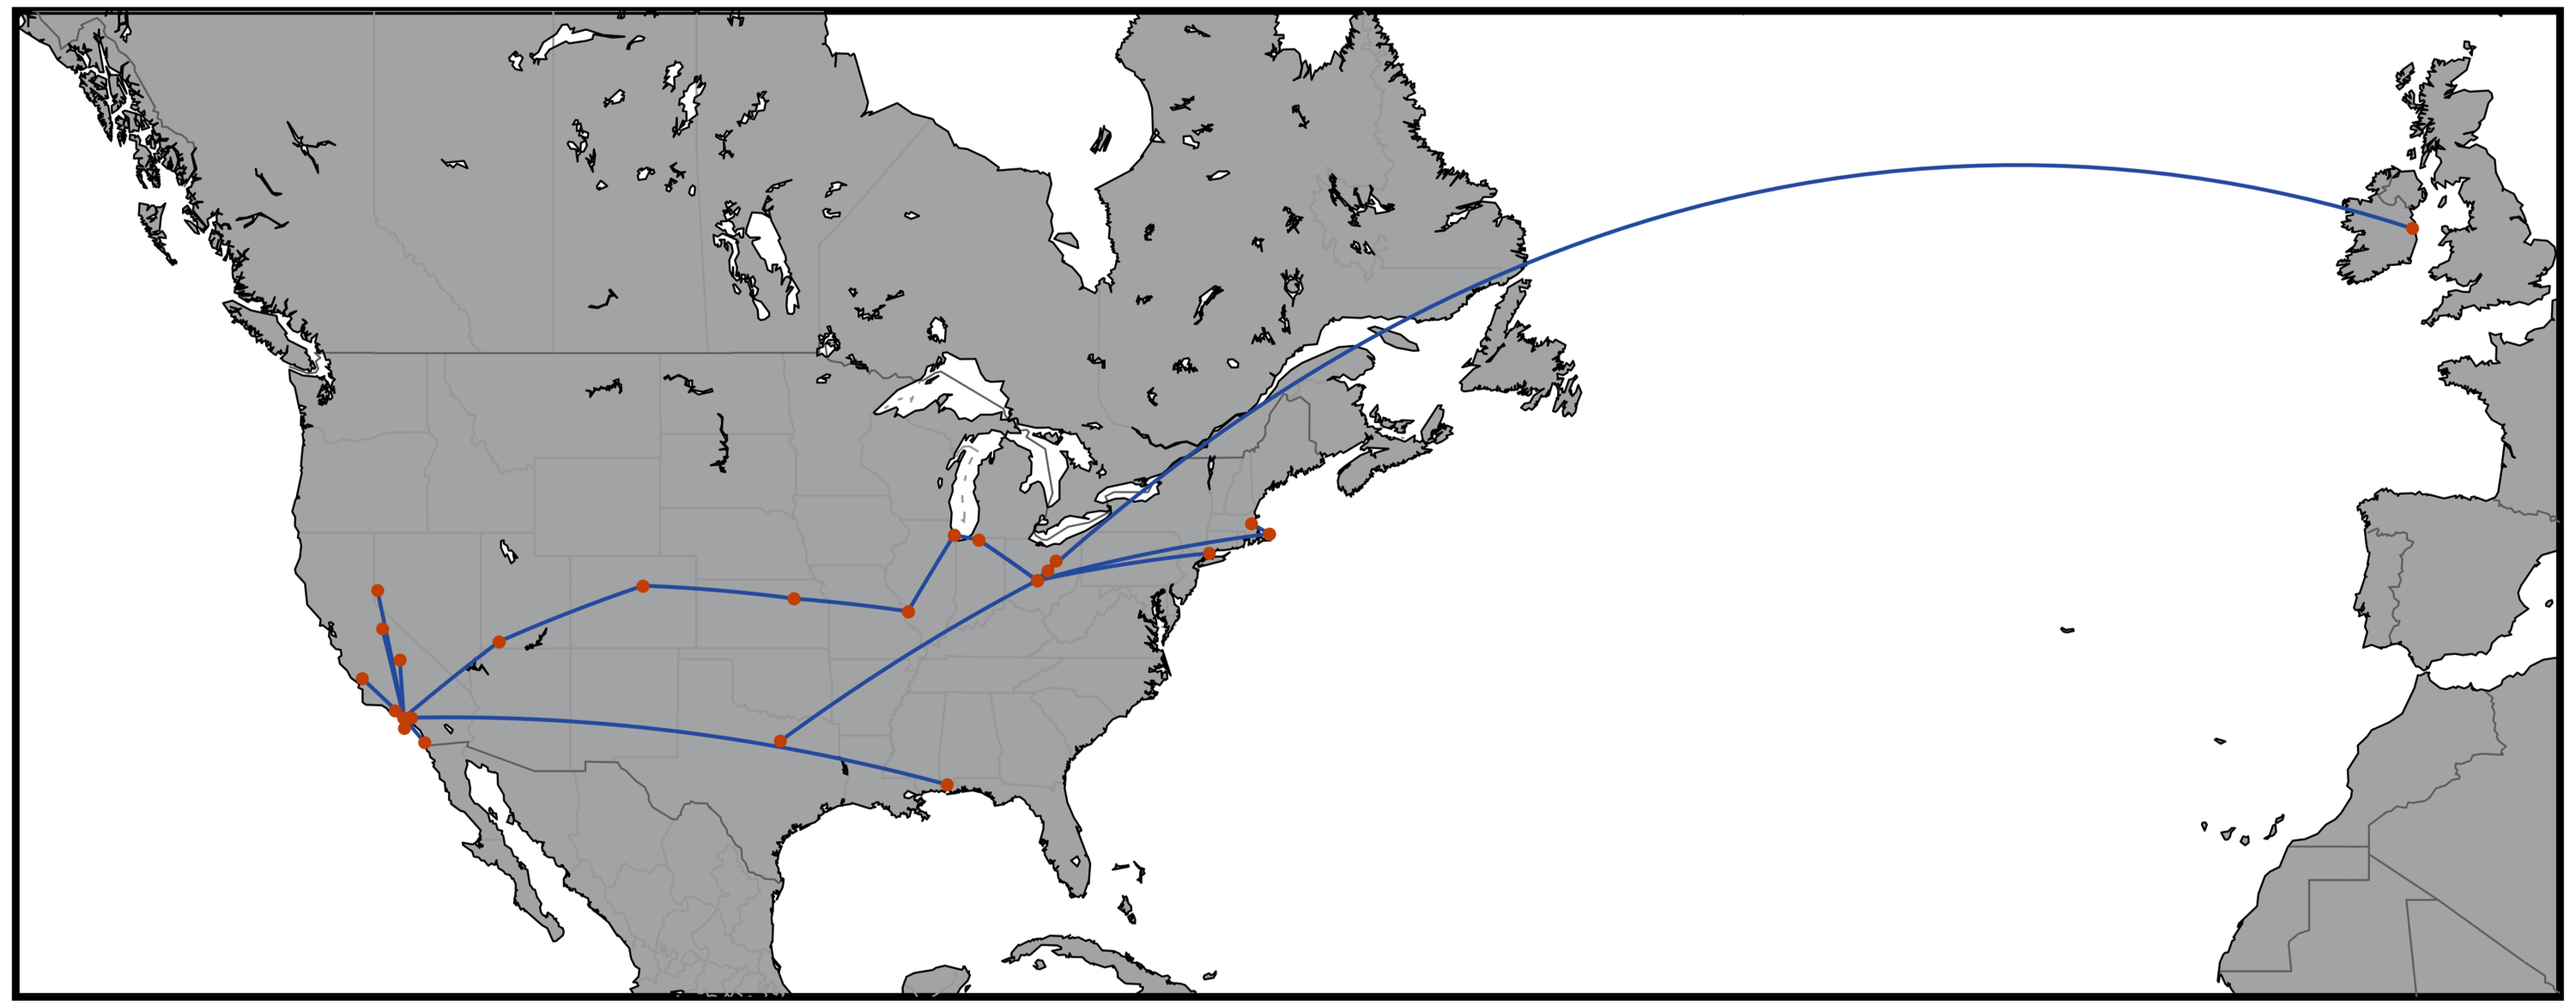
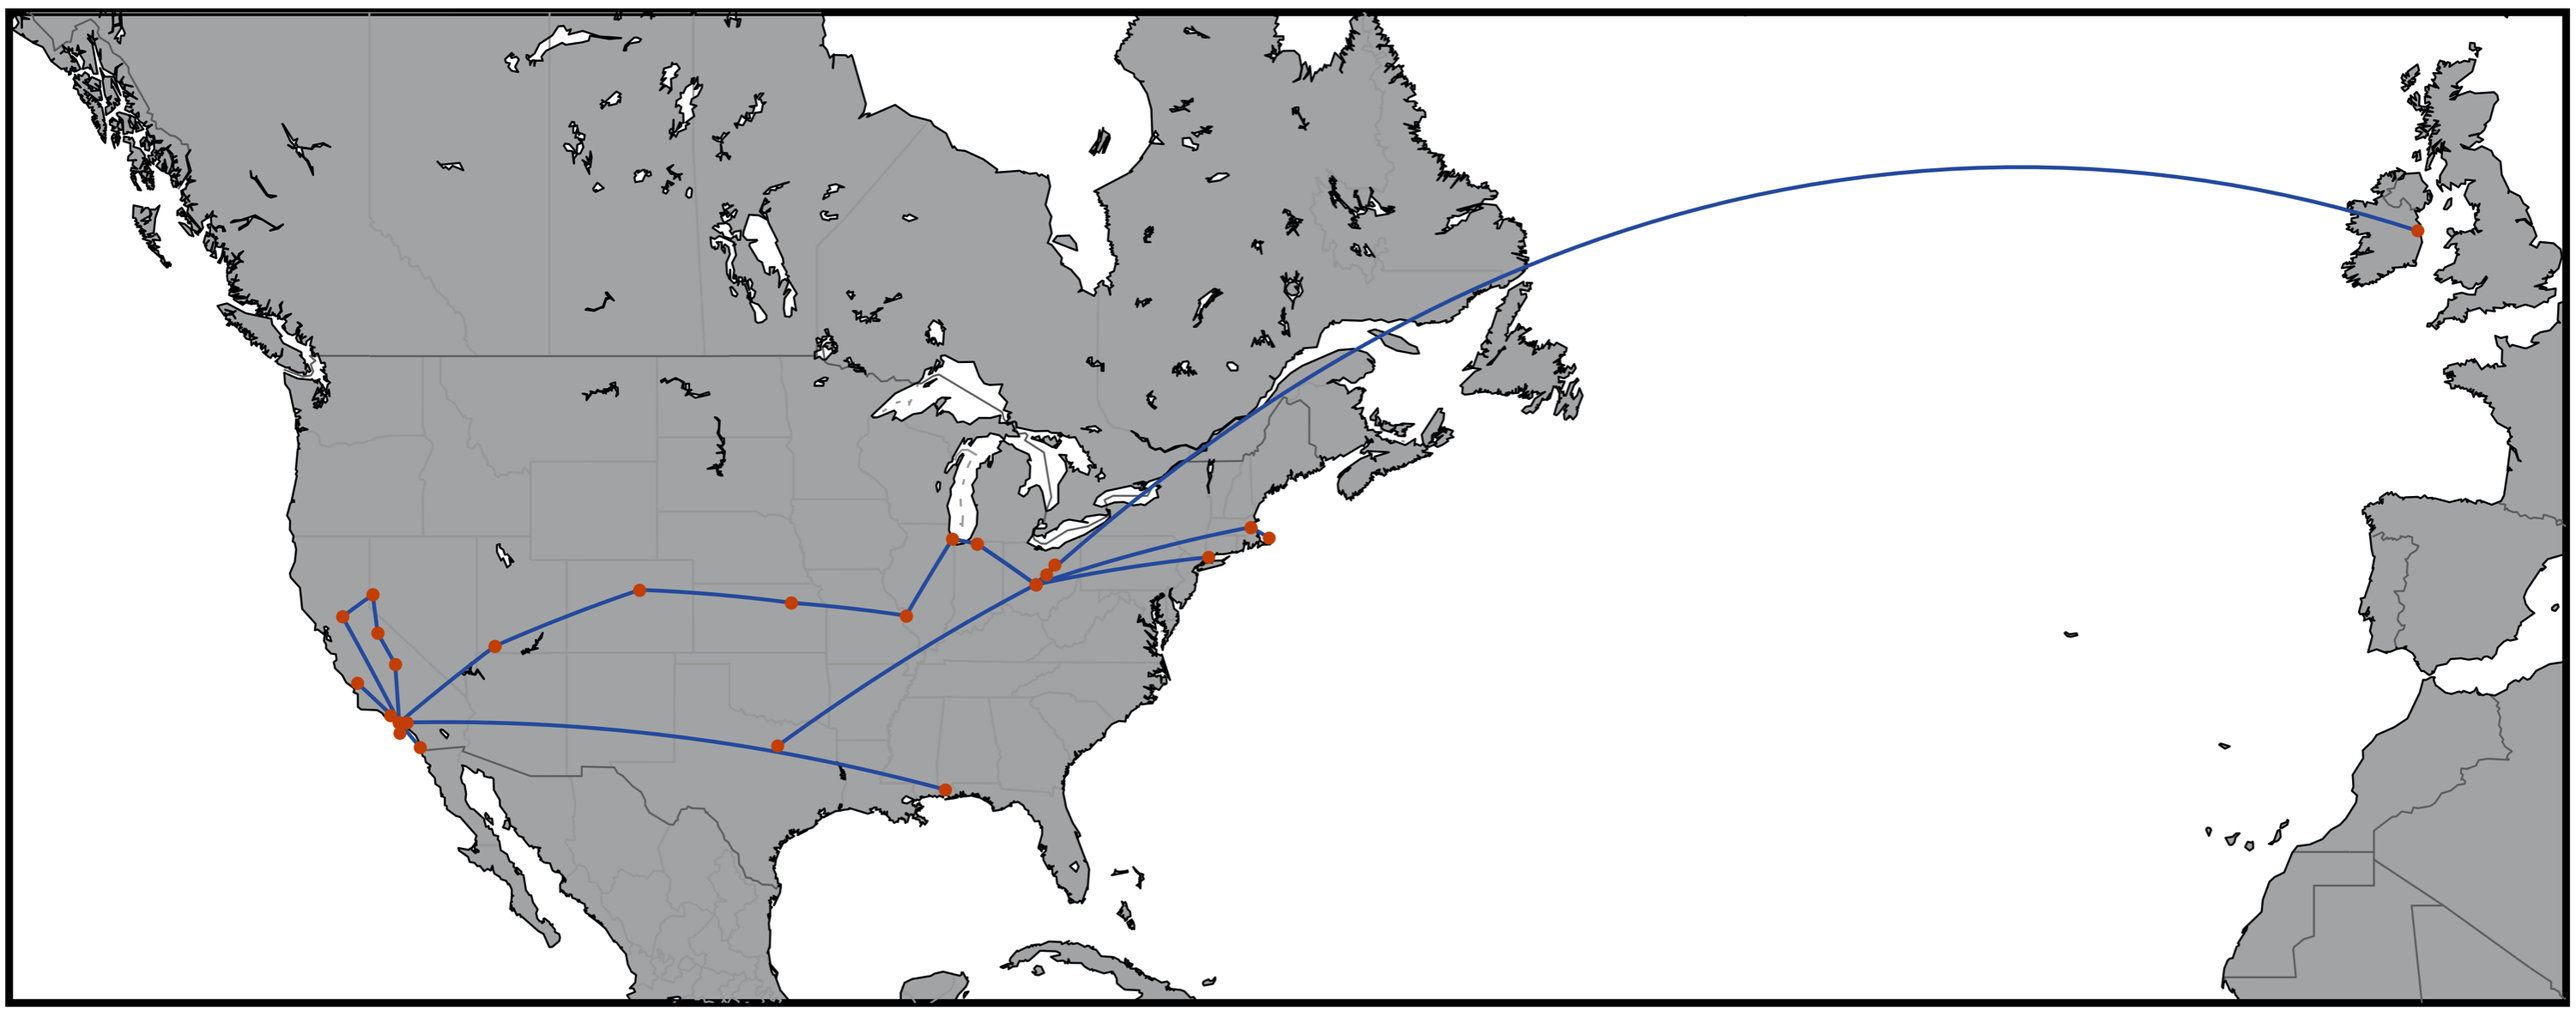
update locations and read

diff --git a/README.md b/README.md
@@ -17,7 +17,24 @@
 * requests 2.11.1
 * geopy 1.11.0
 * basemap 1.0.7
+* image 1.5.5
 
 
 # Installation
-Clone this repo using `https://github.com/mkudija/Maps.git` and run [Map-tools.ipynb](https://github.com/mkudija/Aircraft-Spec-Charts/blob/master/Aircraft-Spec-Charts.ipynb)
+Clone this repo using `https://github.com/mkudija/Map-Tools.git`.
+
+# Run
+
+1. Plan out the route(s) to be plotted. Enter the names of the origin and destination locations in [`data/locations (no_lat-lng).csv`](https://github.com/mkudija/Map-Tools/blob/master/data/locations%20(no_lat-lng).csv). Entering latitude and longitude is not required, but can be entered if desired.
+
+2. Run [`(1)_get_lat-lng.ipynb`](https://github.com/mkudija/Map-Tools/blob/master/(1)_get_lat-lng.ipynb). This script (A) uses the Google API to find the latitude and longitude of the origin and destination locations, and (B) calculates the great circle distance between these locations in nautical miles, statute miles, and kilometers. The result is saved as [`locations.csv`](https://github.com/mkudija/Map-Tools/blob/master/data/locations.csv).
+
+3. Run [`(2)_plot_trips.ipynb`](https://github.com/mkudija/Map-Tools/blob/master/(2)_plot_trips.ipynb). This uses the Python basemap package to plot the great circle lines between each origin and destination. 
+
+## Improvements/Additions
+* Logic to not overwrite lat/lng if present in [`data/locations (no_lat-lng).csv`](https://github.com/mkudija/Map-Tools/blob/master/data/locations%20(no_lat-lng).csv).
+* Labels to points on map
+* Distance between points
+ * requires calculating half-way distance on great circle, see [here](https://www.mathworks.com/matlabcentral/answers/229312-how-to-calculate-the-middle-point-between-two-points-on-the-earth-in-matlab?requestedDomain=www.mathworks.com)
+* Add icon at origin/destination
+* Add flag for plotting paths or not
